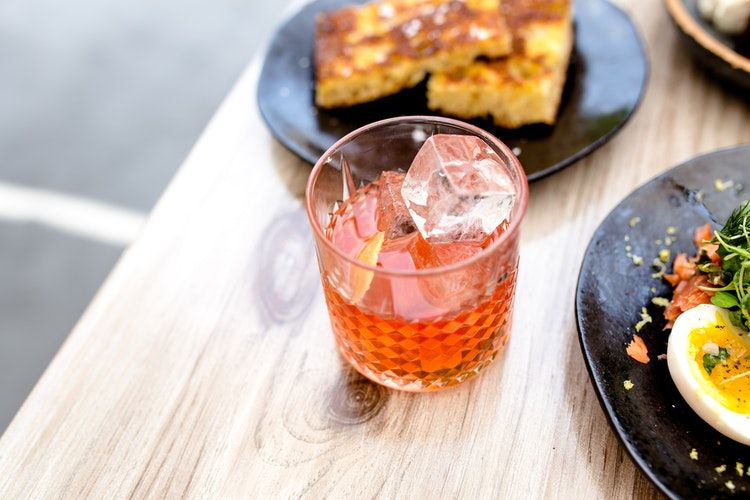
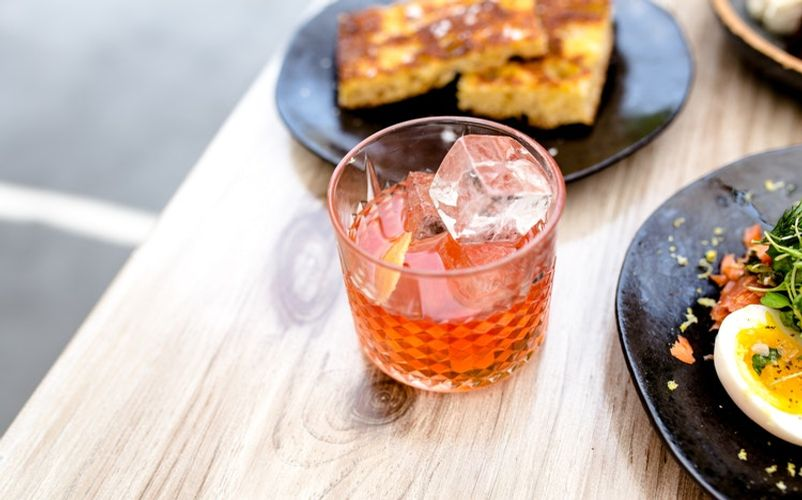
SEO ajust

diff --git a/assets/css/pastie.css b/assets/css/pastie.css
@@ -1,0 +1,60 @@
+.highlight .hll { background-color: #ffffcc }
+.highlight .c { color: #888888 } /* Comment */
+.highlight .err { color: #a61717; background-color: #e3d2d2 } /* Error */
+.highlight .k { color: #008800; font-weight: bold } /* Keyword */
+.highlight .cm { color: #888888 } /* Comment.Multiline */
+.highlight .cp { color: #cc0000; font-weight: bold } /* Comment.Preproc */
+.highlight .c1 { color: #888888 } /* Comment.Single */
+.highlight .cs { color: #cc0000; font-weight: bold; background-color: #fff0f0 } /* Comment.Special */
+.highlight .gd { color: #000000; background-color: #ffdddd } /* Generic.Deleted */
+.highlight .ge { font-style: italic } /* Generic.Emph */
+.highlight .gr { color: #aa0000 } /* Generic.Error */
+.highlight .gh { color: #303030 } /* Generic.Heading */
+.highlight .gi { color: #000000; background-color: #ddffdd } /* Generic.Inserted */
+.highlight .go { color: #888888 } /* Generic.Output */
+.highlight .gp { color: #555555 } /* Generic.Prompt */
+.highlight .gs { font-weight: bold } /* Generic.Strong */
+.highlight .gu { color: #606060 } /* Generic.Subheading */
+.highlight .gt { color: #aa0000 } /* Generic.Traceback */
+.highlight .kc { color: #008800; font-weight: bold } /* Keyword.Constant */
+.highlight .kd { color: #008800; font-weight: bold } /* Keyword.Declaration */
+.highlight .kn { color: #008800; font-weight: bold } /* Keyword.Namespace */
+.highlight .kp { color: #008800 } /* Keyword.Pseudo */
+.highlight .kr { color: #008800; font-weight: bold } /* Keyword.Reserved */
+.highlight .kt { color: #888888; font-weight: bold } /* Keyword.Type */
+.highlight .m { color: #0000DD; font-weight: bold } /* Literal.Number */
+.highlight .s { color: #dd2200; background-color: #fff0f0 } /* Literal.String */
+.highlight .na { color: #336699 } /* Name.Attribute */
+.highlight .nb { color: #003388 } /* Name.Builtin */
+.highlight .nc { color: #bb0066; font-weight: bold } /* Name.Class */
+.highlight .no { color: #003366; font-weight: bold } /* Name.Constant */
+.highlight .nd { color: #555555 } /* Name.Decorator */
+.highlight .ne { color: #bb0066; font-weight: bold } /* Name.Exception */
+.highlight .nf { color: #0066bb; font-weight: bold } /* Name.Function */
+.highlight .nl { color: #336699; font-style: italic } /* Name.Label */
+.highlight .nn { color: #bb0066; font-weight: bold } /* Name.Namespace */
+.highlight .py { color: #336699; font-weight: bold } /* Name.Property */
+.highlight .nt { color: #bb0066; font-weight: bold } /* Name.Tag */
+.highlight .nv { color: #336699 } /* Name.Variable */
+.highlight .ow { color: #008800 } /* Operator.Word */
+.highlight .w { color: #bbbbbb } /* Text.Whitespace */
+.highlight .mf { color: #0000DD; font-weight: bold } /* Literal.Number.Float */
+.highlight .mh { color: #0000DD; font-weight: bold } /* Literal.Number.Hex */
+.highlight .mi { color: #0000DD; font-weight: bold } /* Literal.Number.Integer */
+.highlight .mo { color: #0000DD; font-weight: bold } /* Literal.Number.Oct */
+.highlight .sb { color: #dd2200; background-color: #fff0f0 } /* Literal.String.Backtick */
+.highlight .sc { color: #dd2200; background-color: #fff0f0 } /* Literal.String.Char */
+.highlight .sd { color: #dd2200; background-color: #fff0f0 } /* Literal.String.Doc */
+.highlight .s2 { color: #dd2200; background-color: #fff0f0 } /* Literal.String.Double */
+.highlight .se { color: #0044dd; background-color: #fff0f0 } /* Literal.String.Escape */
+.highlight .sh { color: #dd2200; background-color: #fff0f0 } /* Literal.String.Heredoc */
+.highlight .si { color: #3333bb; background-color: #fff0f0 } /* Literal.String.Interpol */
+.highlight .sx { color: #22bb22; background-color: #f0fff0 } /* Literal.String.Other */
+.highlight .sr { color: #008800; background-color: #fff0ff } /* Literal.String.Regex */
+.highlight .s1 { color: #dd2200; background-color: #fff0f0 } /* Literal.String.Single */
+.highlight .ss { color: #aa6600; background-color: #fff0f0 } /* Literal.String.Symbol */
+.highlight .bp { color: #003388 } /* Name.Builtin.Pseudo */
+.highlight .vc { color: #336699 } /* Name.Variable.Class */
+.highlight .vg { color: #dd7700 } /* Name.Variable.Global */
+.highlight .vi { color: #3333bb } /* Name.Variable.Instance */
+.highlight .il { color: #0000DD; font-weight: bold } /* Literal.Number.Integer.Long */

diff --git a/image-resize-sharp.js b/image-resize-sharp.js
@@ -4,22 +4,17 @@ const fs = require('fs');
 const path = require('path');
 
 const _PATH_SOURCE = path.normalize('./assets/images_orig/');
-const _PATH_DEST_THUMB = path.normalize('./assets/thumbnail/');
 const _PATH_DEST_POST = path.normalize('./assets/images/');
-
-
-const fileThumb = {w: 348, h: 232, pathDest: _PATH_DEST_THUMB}
-const filePost = {w: 802, h: 500,  pathDest: _PATH_DEST_POST}
-
 
 fs.readdir(_PATH_SOURCE, (err, files)=> {
     if (err) throw err;
-    let newFile;
+    let newName;
+    let oldName;
     files.forEach((fname) => {
-        let newName = path.join(filePost.pathDest, fname);
-        let oldName = path.join(_PATH_SOURCE, fname);
+        newName = path.join(_PATH_DEST_POST, fname);
+        oldName = path.join(_PATH_SOURCE, fname);
 
-        resize({w: 802, h: 500,  pathDest: _PATH_DEST_POST, newFileName: newName, oldFileName: oldName});
+        resize({w: 802, h: 500, newFileName: newName, oldFileName: oldName});
         // resize({w: 802, h: 500,  pathDest: _PATH_DEST_POST, newFileName: newName, oldFileName: oldName})
         //     .then((data) => {
         //         console.log(data);
@@ -65,17 +60,16 @@ const resizeFile = function (fileType) {
     return new Promise ((resolve, reject) => {
         //resolve(`${oldFile}\n${newFile}`);
         sharp(fileType.oldFileName)
-        .resize(fileType.w, fileType.h, {
-            fit: sharp.fit.inside,
-            withoutEnlargement: true
-          })
-        .toBuffer()
-        .then( data => {
-            fs.writeFileSync(fileType.newFileName, data);
-            resolve(`File resized sucess.[${fileType.newFileName}]`);
-        })
-        .catch( err => {
-            reject(`Error to resize the file [${fileType.oldFileName}] (${err})`);
+            .resize(fileType.w, fileType.h, {
+                fit: sharp.fit.fill
+                })
+            .toBuffer()
+            .then( data => {
+                fs.writeFileSync(fileType.newFileName, data);
+                resolve(`File resized sucess.[${fileType.newFileName}]`);
+            })
+            .catch( err => {
+                reject(`Error to resize the file [${fileType.oldFileName}] (${err})`);
      });
   
         

diff --git a/_layouts/default.html b/_layouts/default.html
@@ -4,7 +4,7 @@
 <meta charset="utf-8">
 <meta name="viewport" content="width=device-width, initial-scale=1, shrink-to-fit=no">
 
-<link rel="icon" href="{{ site.baseurl }}/assets/images/logo.png">
+<link rel="icon" href="{{ site.baseurl }}/favicon.ico?v=1">
 
 <title>{{ page.title }} | {{site.name}}</title>
 
@@ -166,11 +166,13 @@ ga('send', 'pageview');
     <div class="container">
         <div class="row">
             <div class="col-md-6 col-sm-6 text-center text-lg-left">
-                Copyright © {{ site.time | date: "%Y" }} {{ site.name }} 
+                Copyright DevHome© {{ site.time | date: "%Y" }} {{ site.name }} 
             </div>
+            <!-- 
             <div class="col-md-6 col-sm-6 text-center text-lg-right">    
-                <a target="_blank" href="https://www.wowthemes.net/mediumish-free-jekyll-template/">Mediumish Jekyll Theme</a> by WowThemes.net
-            </div>
+                <a target="_blank" href="https://www.wowthemes.net/mediumish-free-jekyll-template/">JTheme Mediumish</a> by WowThemes.net
+            </div> 
+            -->
         </div>
     </div>
 </footer>

diff --git a/_layouts/post.html b/_layouts/post.html
@@ -69,7 +69,7 @@ post_class: post-template
                         <p><em>{{page.beforetoc}}</em></p>
                     {% endif %}
                     <div class="toc mt-4 mb-4 lead">
-                        <h3 class="font-weight-bold">Summary</h3>
+                        <h3 class="font-weight-bold">Resumo</h3>
                         {% include toc.html html=content %}
                     </div>
                 {% endif %}

diff --git a/assets/css/main.scss b/assets/css/main.scss
@@ -13,3 +13,5 @@
 	"syntax",
     "starsnonscss"
 ;
+
+@import "pastie.css";

diff --git a/_posts/2020-01-06-promise-basico.md b/_posts/2020-01-06-promise-basico.md
@@ -2,8 +2,49 @@
 layout: post
 title:  "Promise - Entenda-as e descubra seu poder"
 author: klaid
+featured: false
+hidden: false
 categories: [ JavaScript ]
+tags: [JavaScript, Promise] 
 image: assets/images/promises.jpg
----
+beforetoc: "" 
+toc: true
 
-As I engage in the so-called "bull sessions" around and about the school, I too often find that most college men have a misconception of the purpose of education. Most of the "brethren" think that education should equip them with the proper instruments of exploitation so that they can forever trample over the masses. Still others think that education should furnish them with noble ends rather than means to an end.
+---
+Conceitos como PROMISES me chamou bastante atenção por perceber que colegas que estavam estudando tinham dificuldade em entender ou, em algumas vezes, usavam sem saber exatamente o comportamento delas, então ao ponto.
+## Entendendo PROMISES em JavaScript
+
+Depois de 9 anos trabalhando com .Net no back-end e a forte adoção do desenvolvimento na com JavaScript, inclusive no back-end, resolvi investir mais tempo no estudo da linguagem. Muitas vezes a característica da linguagem me deixava intrigado por ter uma tipagem fraca, não que isso seja um problema para mim, durante muitos anos programei em ASP 3.0 e me sentia muito à vontade.
+
+Promise:
+É um proxy para um valor ainda não conhecido no momento que a Promise é criada, permitindo associar métodos de tratamento para eventos da ação assíncrona no caso de sucesso ou de falha e permitindo que métodos assíncronos se comportem como métodos síncronos ele não retorna um valor final e sim uma promessa que retornará um valor em algum momento.
+
+Uma promise pode sempre estará em um desses estados:
+	pending: estado inicial, nem resolvida nem rejeitada;
+	fulfilled: significa que a ação foi concluída com êxito;
+	rejected: significa que a operação falhou;
+    
+Logo, uma promessa inicia com o PromiseStatus=”pending” só pode retornar que foi concluída ou rejeitada (erro). Porém, o que temos real interesse em uma promessa é o seu retorno (PromiseValue), o valor que a função está retornando, é ele que precisamos para darmos andamento no nosso código, por exemplo, uma promise pode chamar uma API REST geralmente não queremos nos preocupar com o estado, só queremos resultado seja ele um JSON, XML, ou qualquer outro formado de retorno da API, importante saber também que quando o status da promessa está como “pending” o PromiseValue está como “undefined” logicamente a função ainda está trabalhando para obter o valor.
+
+Exemplo simples:
+```js
+function myAsyncFunction(url) {
+  return new Promise((resolve, reject) => {
+  const xhr = new XMLHttpRequest() 
+    xhr.open("GET", url) 
+    xhr.onload = () => resolve(xhr.responseText) 
+    xhr.onerror = () => reject(xhr.statusText) 
+    xhr.send() 
+  });
+}
+
+myAsyncFunction('https://api.github.com/orgs/nodejs')
+    .then((retorno) => console.log(retorno))
+    .catch((erro) => console.log(erro));
+console.log('FIM DO PROCESSAMENTO');
+```
+Resultado da execução no console do browser
+![exec_promisse_basic]({{ site.baseurl }}/assets/images/exec_primisse_basic.PNG)
+>Analisando o comportamento pelo log impresso você pode estar se perguntando porque a mensagem de **FIM DO PROCESSAMENTO** apareceu antes da função **myAsyncFunction**, 
+> "se eu implementei a *Promise* na função porque ele não se comportou de forma sincrona e só apresentou a mensagem no após a resposta da chamada Http?
+> bla bla bla  isso é um teste agora.

diff --git a/_posts/2022-01-11-customer-service.md b/_posts/2022-01-11-customer-service.md
@@ -7,7 +7,7 @@ tags: [red, yellow]
 image: assets/images/11.jpg
 description: "My review of Inception movie. Acting, plot and something else in this short description."
 featured: true
-hidden: true
+hidden: false
 rating: 4.5
 ---
 

diff --git a/_posts/2022-06-12-powerful-things-markdown-editor.md b/_posts/2022-06-12-powerful-things-markdown-editor.md
@@ -2,6 +2,7 @@
 layout: post
 title:  "Powerful things you can do with the Markdown editor"
 author: sal
+hidden: true
 categories: [ Jekyll, tutorial ]
 image: assets/images/16.jpg
 ---
